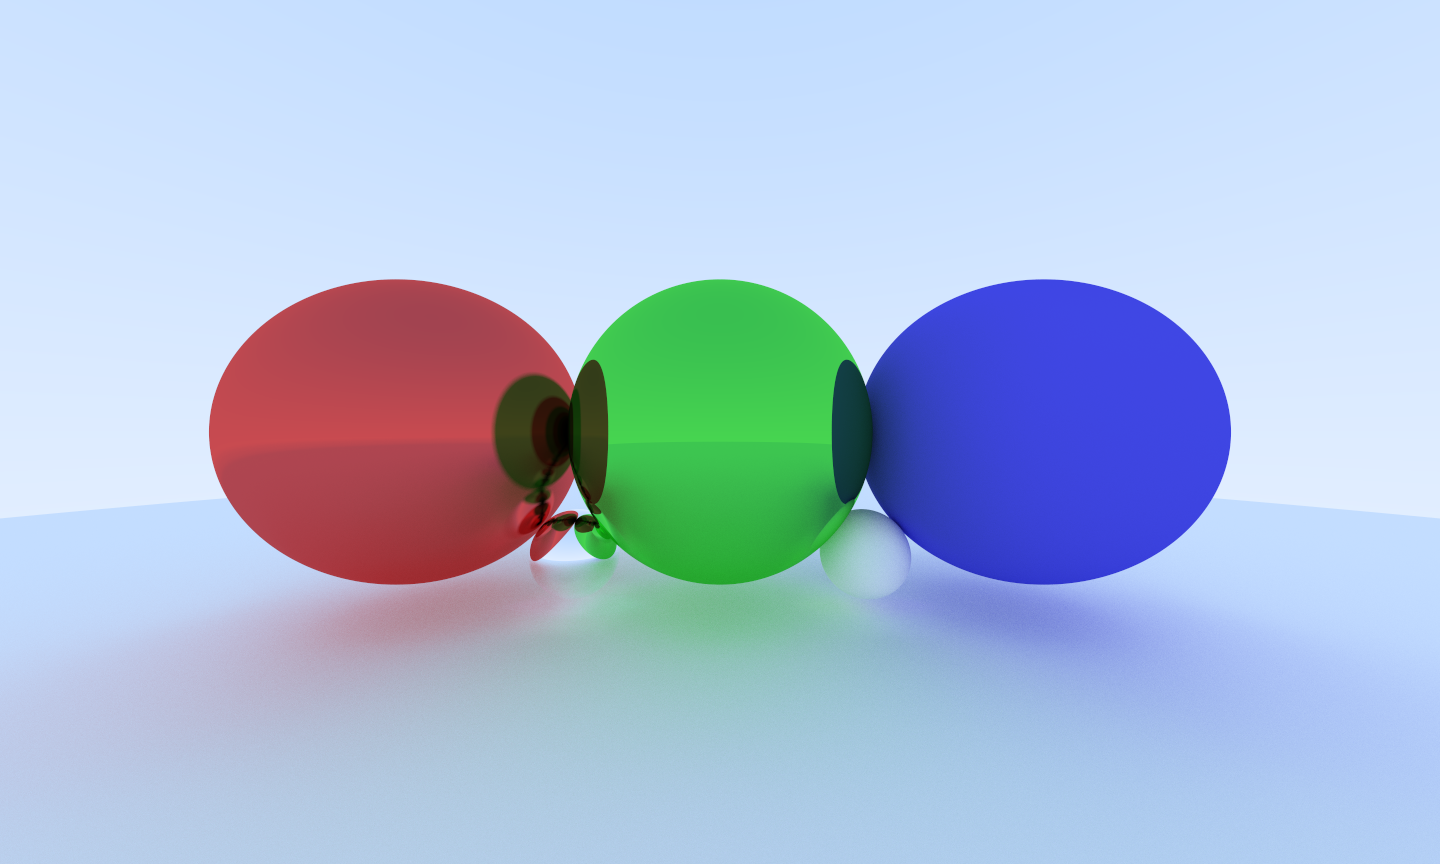
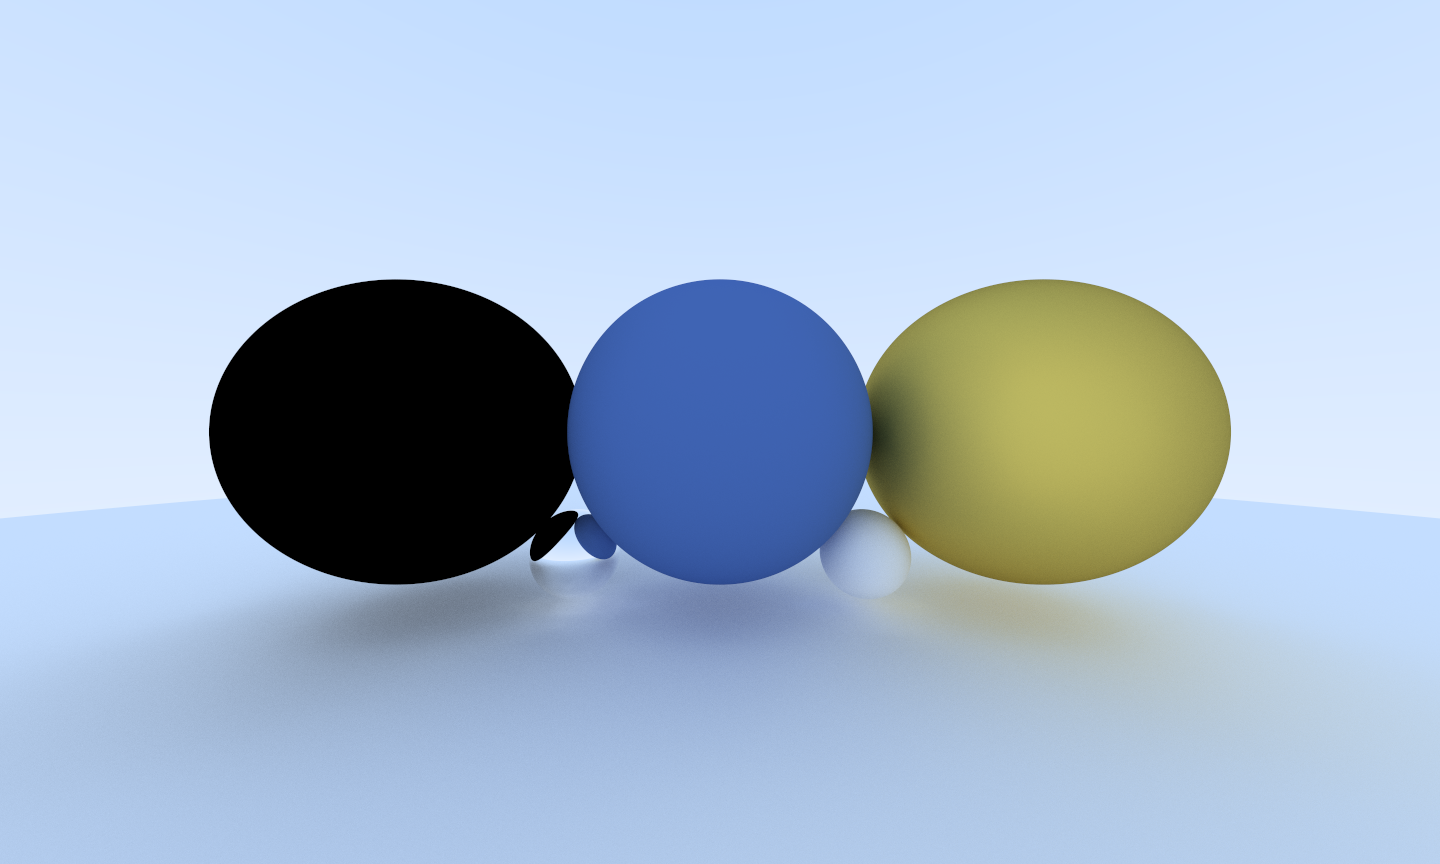
[Chapter 11.2] Dielectric initial implementation, with bugs

Changed region(s): [[0.125, 0.3125, 0.875, 0.8438]]

diff --git a/src/main.rs b/src/main.rs
@@ -17,31 +17,42 @@ fn main() {
     // let material_left   = Metal::new(color(0.8, 0.8, 0.8));
     // let material_right  = Metal::new(color(0.8, 0.6, 0.2));
 
+    // Ground
     world.add(Box::new(Sphere::new(
         DVec3::new(0.0, -100.6, -1.5),
         100.0,
         material::Material::Lambertian{albedo: DVec3::new(1.0, 1.0, 1.0)},
     )));
+
+    // Left Ball
     world.add(Box::new(Sphere::new(
         DVec3::new(-1.0, 0.0, -1.5),
         0.5,
-        material::Material::Metal {albedo: DVec3::new(0.8, 0.1, 0.1), fuzz: 0.05},
+        material::Material::Dielectric {refraction_index: 1.0},
     )));
+
+    // Middle Ball
     world.add(Box::new(Sphere::new(
         DVec3::new(0.0, 0.0, -1.5),
         0.5,
-        material::Material::Metal {albedo: DVec3::new(0.1, 0.8, 0.1), fuzz: 0.0000001},
+        material::Material::Lambertian {albedo: DVec3::new(0.1, 0.2, 0.5)},
     )));
+
+    // Right Ball
     world.add(Box::new(Sphere::new(
         DVec3::new(1.0, 0.0, -1.5),
         0.5,
-        material::Material::Lambertian {albedo: DVec3::new(0.1, 0.1, 0.8)},
+        material::Material::Metal {albedo: DVec3::new(0.9, 0.69, 0.15), fuzz: 1.0},
     )));
+
+    // Lower Left Ball
     world.add(Box::new(Sphere::new(
         DVec3::new(-0.5, -0.42, -1.5),
         0.15,
-        material::Material::Metal {albedo: DVec3::new(1.0, 1.0, 1.0), fuzz: 0.001},
+        material::Material::Metal {albedo: DVec3::new(1.0, 1.0, 1.0), fuzz: 0.0},
     )));
+
+    // Lower Right Ball
     world.add(Box::new(Sphere::new(
         DVec3::new(0.5, -0.42, -1.5),
         0.15,
@@ -52,7 +63,7 @@ fn main() {
 
     cam.aspect_ratio = 4.0 / 2.4;
     cam.image_width = 1440;
-    cam.samples_per_pixel = 1000;
+    cam.samples_per_pixel = 1500;
 
     cam.render(&world);
 }

diff --git a/src/material.rs b/src/material.rs
@@ -18,6 +18,9 @@ pub enum Material {
         albedo: DVec3,
         fuzz: f64,
     },
+    Dielectric {
+        refraction_index: f64,
+    },
 }
 
 impl Material {
@@ -43,13 +46,28 @@ impl Material {
                 *attenuation = *albedo;
                 Some(true)
             }
-            Metal { albedo , fuzz} => {
+            Metal { albedo, fuzz } => {
                 let fuzz = if *fuzz > 1.0 { 1.0 } else { *fuzz };
                 let reflected = reflect(r_in.direction, rec.normal);
                 let reflected = reflected.normalize() + (fuzz * random_dvec3_unit());
                 *scattered = Ray::new(rec.p, reflected);
                 *attenuation = *albedo;
                 Some(scattered.direction.dot(rec.normal) > 0.0)
+            }
+            Dielectric { refraction_index } => {
+                *attenuation = DVec3::new(1.0, 1.0, 1.0);
+                let ri = if rec.front_face {
+                    1.0 / refraction_index
+                } else {
+                    *refraction_index
+                };
+
+                let unit_direction = r_in.direction.normalize();
+                let refracted = refract(unit_direction, rec.normal, ri);
+
+                *scattered = Ray::new(rec.p, refracted);
+
+                Some(true)
             }
         }
     }

diff --git a/src/utils.rs b/src/utils.rs
@@ -44,8 +44,16 @@ pub fn near_zero(test: &DVec3) -> bool {
 }
 
 pub fn reflect(v: DVec3, n: DVec3) -> DVec3 {
-    v - 2.0*v.dot(n)*n
+    v - 2.0 * v.dot(n) * n
 }
+
+pub fn refract(uv: DVec3, n: DVec3, etai_over_etat: f64) -> DVec3 {
+    let cos_theta = ((-1.0 * uv).dot(n)).min(1.0);
+    let r_out_perp = etai_over_etat * (uv + (cos_theta * n));
+    let r_out_parallel = -(1.0 * ((1.0 - r_out_perp.length_squared()).abs()).sqrt()) * n;
+    r_out_perp + r_out_parallel
+}
+
 // pub fn random_in_unit_sphere() -> DVec3 {
 //     let mut rng = rand::thread_rng();
 //     let mut v = DVec3::new(0.0, 0.0, 0.0);

diff --git a/src/camera.rs b/src/camera.rs
@@ -83,8 +83,6 @@ impl Camera {
                 return attenuation * Self::ray_color(&scattered, depth - 1, world);
             }
             return DVec3::new(0.0, 0.0, 0.0);
-            // let direction: DVec3 = crate::utils::random_on_hemisphere(rec.normal);
-            // return 0.5 * Self::ray_color(&Ray::new(rec.p, direction), depth - 1, world);
         }
 
         let unit_direction = r.direction.normalize();
